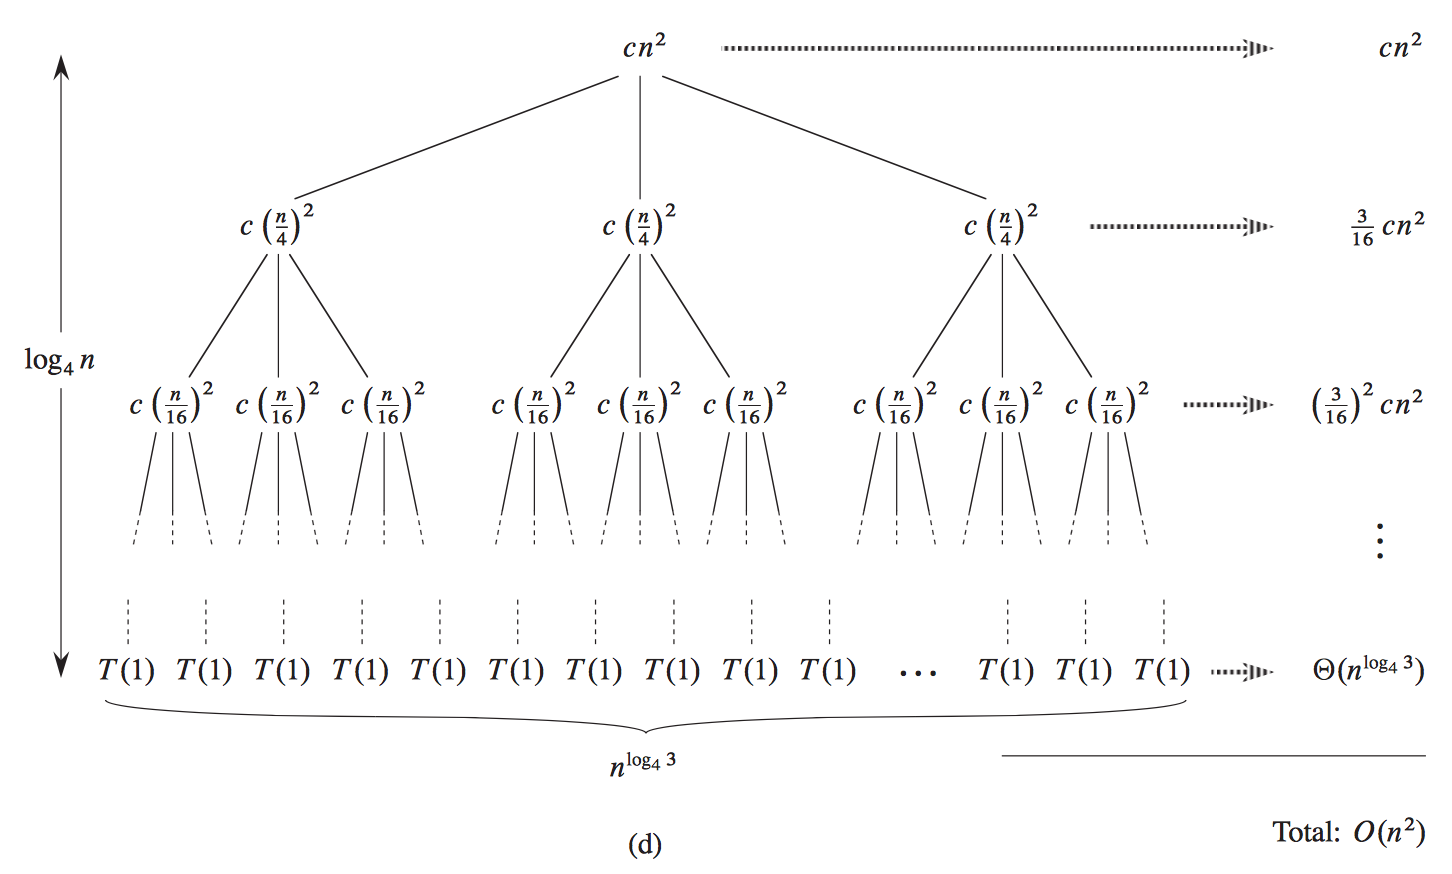
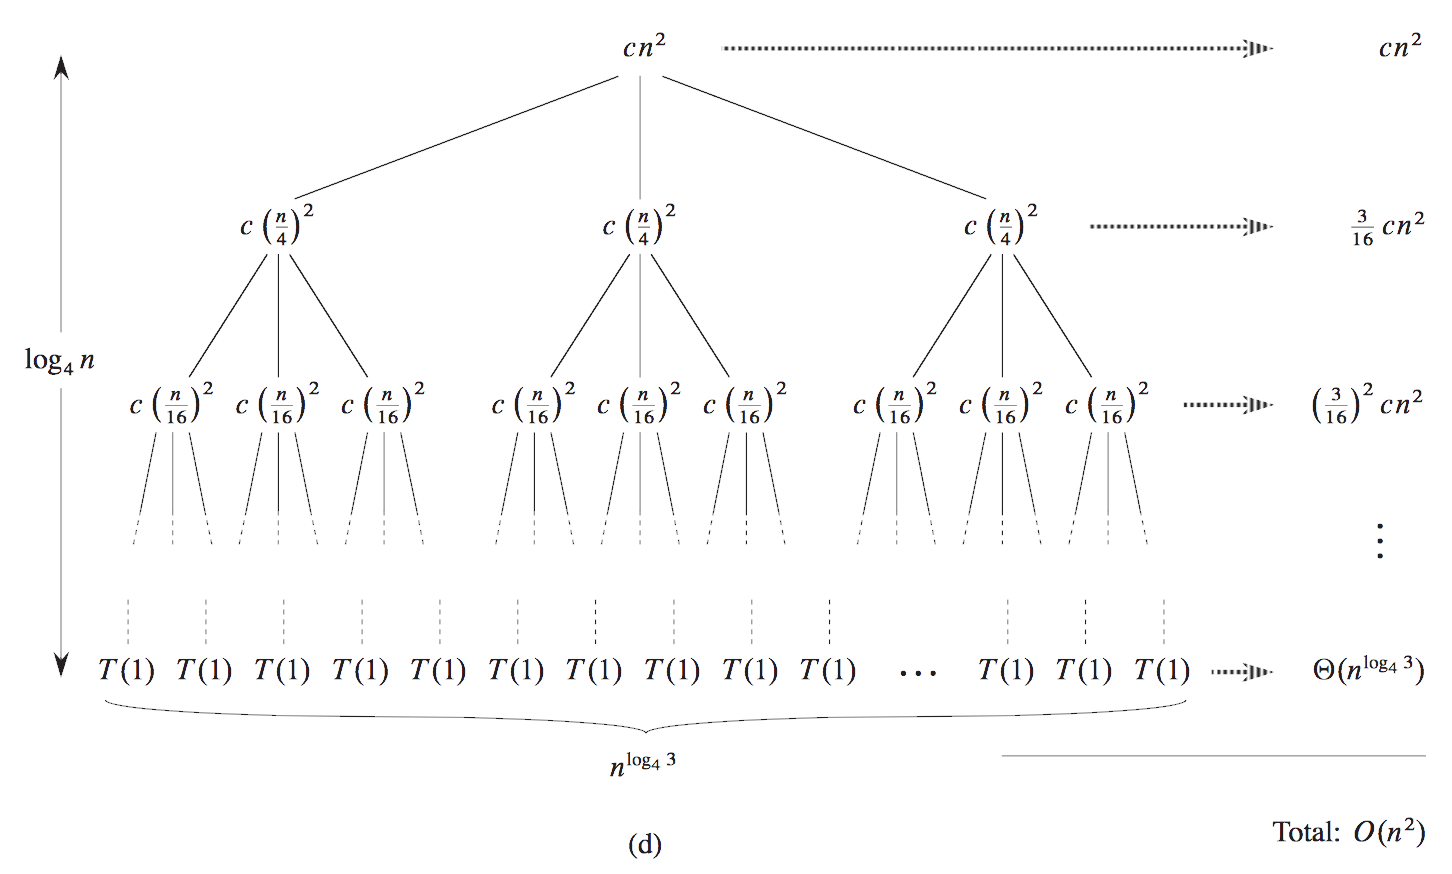
Cleaning up graphics.

Changed region(s): [[0.9298, 0.2471, 0.9607, 0.278], [0.6818, 0.2471, 0.7128, 0.278], [0.2479, 0.4943, 0.2789, 0.5252]]

diff --git a/DivideConquerI.html b/DivideConquerI.html
@@ -366,14 +366,14 @@
                 <br>
                 <br>
                 <img
-                src="http://www.cs.cornell.edu/courses/cs3110/2012sp/lectures/lec20-master/images/lec19-diagram1.png">
+                src="graphics/NSquaredTree1.png">
                 <br>
                 <br>
                 Calculate the work at each level:
                 <br>
                 <br>
                 <img
-                src="http://www.cs.cornell.edu/courses/cs3110/2012sp/lectures/lec20-master/images/lec19-diagram2.png">
+                src="graphics/NSquaredTree2.png">
                 <br>
                 <br>
                 This produces the geometric series:
